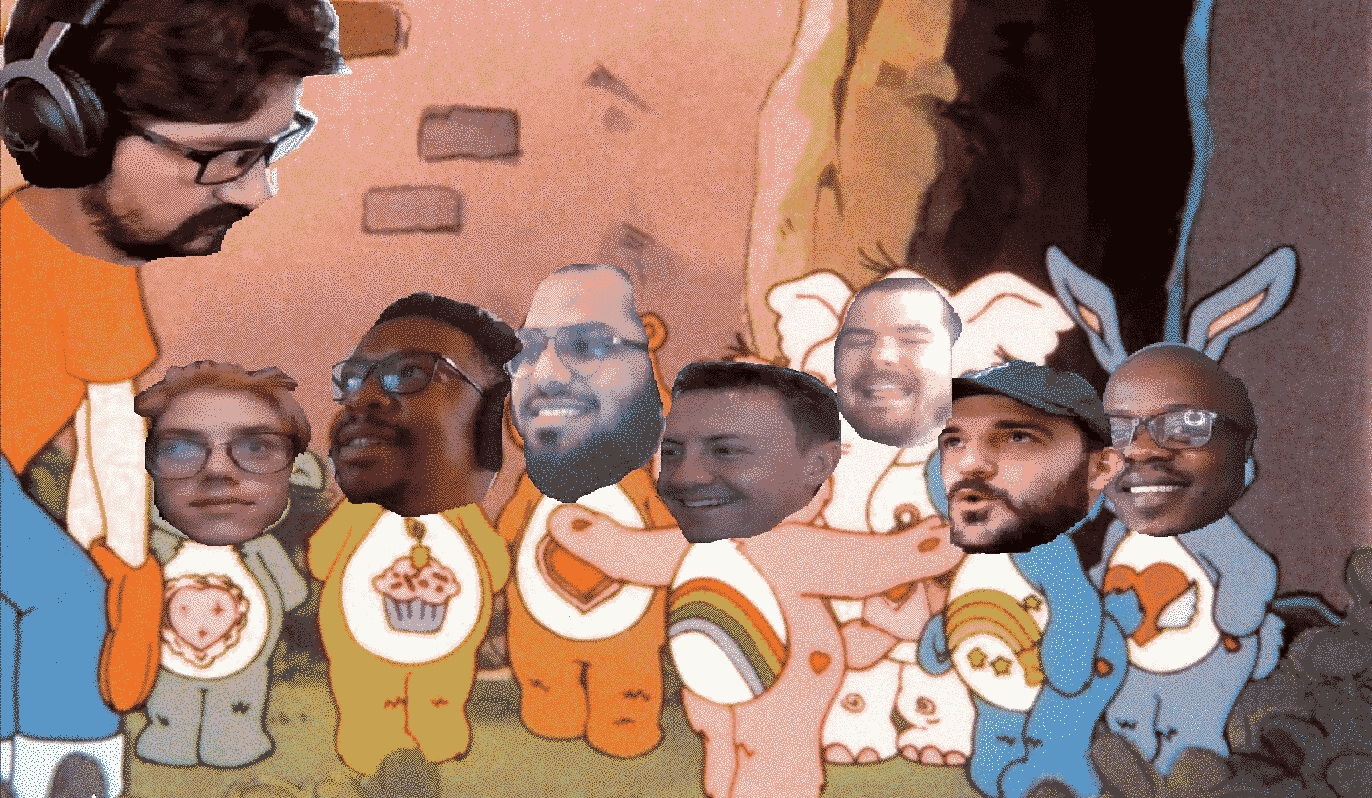
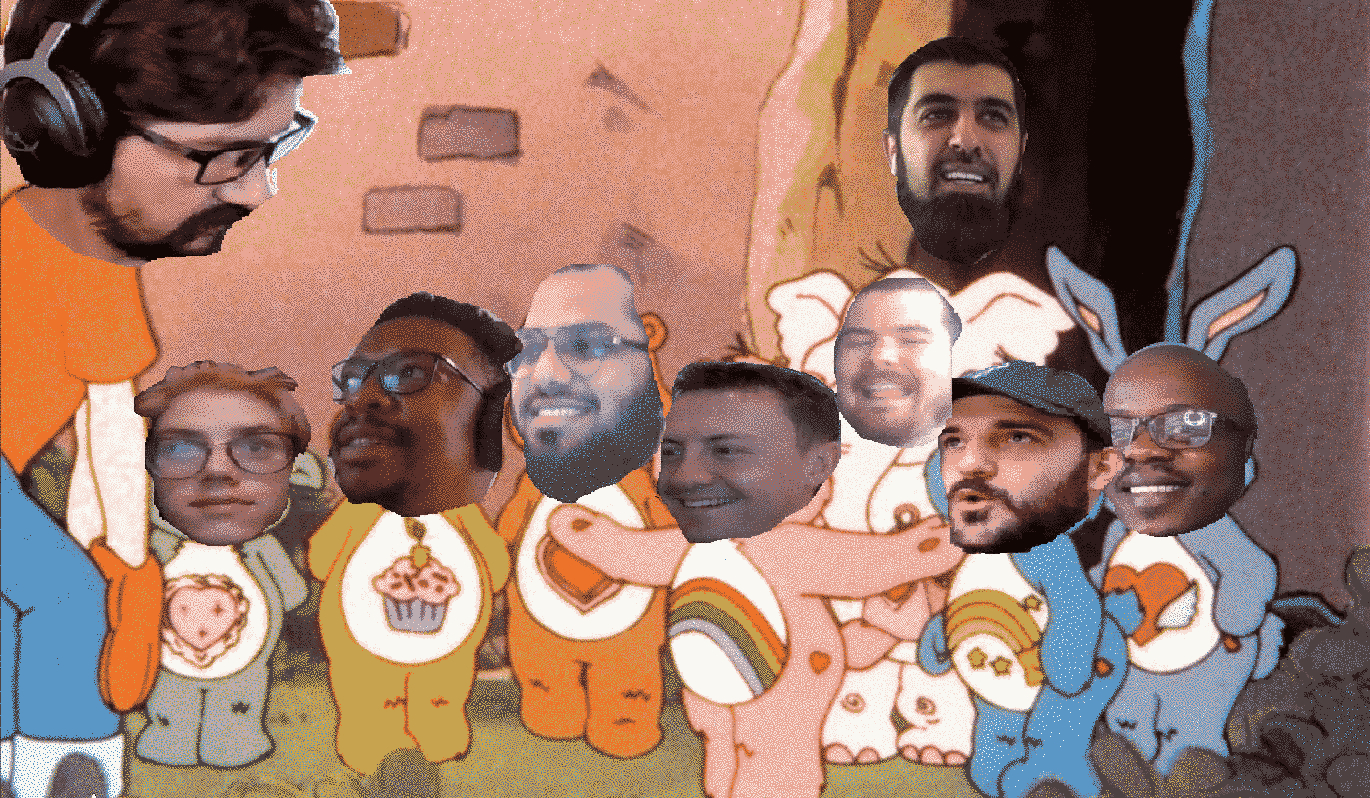
Receiver demo

diff --git a/src/components/Welcome/Welcome.vue b/src/components/Welcome/Welcome.vue
@@ -23,6 +23,15 @@
       <button
         class="btn btn-primary border-dark"
         type="button"
+        @click="showPowers"
+      >
+        <span class="btn-text">
+          <span class="underline">S</span>uperpowers
+        </span>
+      </button>
+      <button
+        class="btn btn-primary border-dark"
+        type="button"
         @click="showClient"
       >
         <span class="btn-text">
@@ -54,19 +63,23 @@ export default {
   name: "Welcome",
   data: function () {
     return {
-      image: "src/assets/img/culture/spicegirls.jpg",
-      caption: "TODO",
+      image: "src/assets/img/welcome.gif",
+      caption: "We spent way too much time on this",
     };
   },
   methods: {
     showWelcome: function () {
-      this.image = "src/assets/img/culture/spicegirls.jpg";
-      this.caption = "TODO";
+      this.image = "src/assets/img/welcome.gif";
+      this.caption = "We spent way too much time on this";
     },
     showClient: function () {
       this.image = "src/assets/img/netcare.jpg";
       this.caption =
-        "TODO: Netcare, basic intro into the work we’re involved in with them. Their systems, etc.";
+        "Netcare is the largest private healthcare provider in SA and the UK";
+    },
+    showPowers: function () {
+      this.image = "src/assets/img/bigdeal.jpg";
+      this.caption = "The Justice League has nothing on us";
     },
   },
 };

diff --git a/src/components/Care4You/Care4YouDeployment.vue b/src/components/Care4You/Care4YouDeployment.vue
@@ -1,22 +1,14 @@
 <template>
   <div>
-    <p class="card-text">Workaround method of deployment due to strict tech stack constraints</p>
+    <p class="card-text">
+      Workaround method of deployment due to strict tech stack constraints
+    </p>
     <ol>
-      <li>
-        Modules
-      </li>
-      <li>
-        Windows Services
-      </li>
-      <li>
-        All Netcare developers use the same DEV and QA environments
-      </li>
-      <li>
-        DNN is a highly coupled platform
-      </li>
-      <li>
-        Did not have system permissions
-      </li>
+      <li>Modules</li>
+      <li>Windows Services</li>
+      <li>All Netcare developers use the same DEV and QA environments</li>
+      <li>DNN is a highly coupled platform</li>
+      <li>Did not have system permissions</li>
       <li>Could only deploy to prod after hours</li>
     </ol>
   </div>

diff --git a/src/components/Welcome/KnowledgeShare.vue b/src/components/Welcome/KnowledgeShare.vue
@@ -59,7 +59,7 @@ export default {
         },
         {
           image: "rituals.jpg",
-          caption: "We rely on each other for support",
+          caption: "We share our dreams and deepest desires",
         },
         {
           image: "robabank.jpg",
